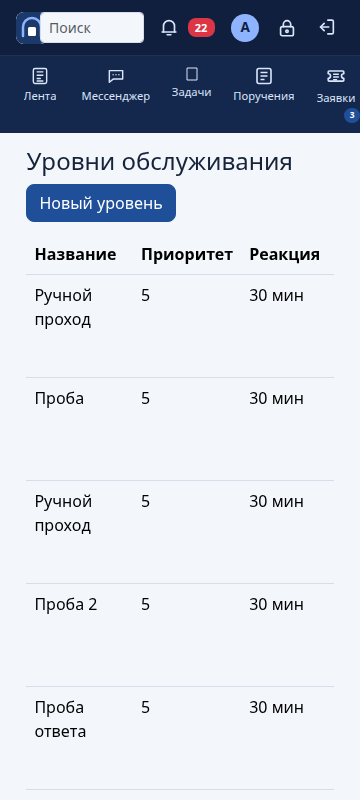
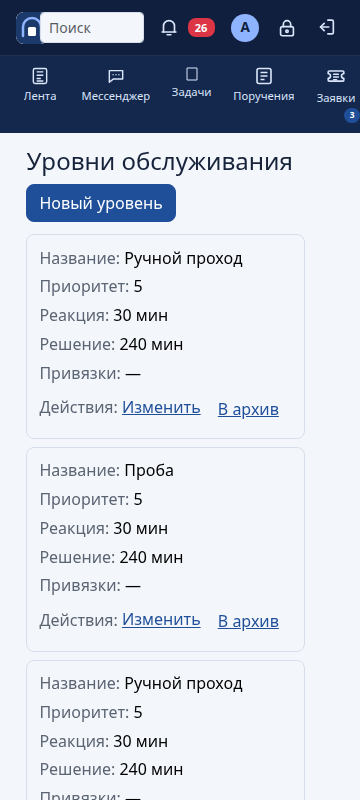
T-11305: 360 px — карточки списков уровней и шаблонов, активный фильтр с aria-current, ноль вместо прочерка в отчёте

diff --git a/backend/templates/servicedesk/reports/page.html b/backend/templates/servicedesk/reports/page.html
@@ -1,6 +1,6 @@
 {% extends layout %}
 {% block content %}
-<main data-report-page style="max-width:100%;overflow-wrap:anywhere">
+<main class="container-fluid w-100 py-3" data-report-page style="max-width:100%;overflow-wrap:anywhere">
   <h1>Отчёт по заявкам</h1>
   <p><a class="btn btn-outline-secondary btn-sm" data-report-export
      href="/servicedesk/reports/export/?{{ request.GET.urlencode }}">Скачать Excel</a></p>
@@ -25,7 +25,7 @@
   </form>
   <section aria-label="Показатели">
     {% for key, title, value in metric_rows %}
-      <div data-report-row data-key="{{ key }}" data-value="{{ value }}"><span>{{ title }}</span>: <strong>{{ value|default:"—" }}</strong></div>
+      <div data-report-row data-key="{{ key }}" data-value="{{ value }}"><span>{{ title }}</span>: <strong>{{ value|default_if_none:"—" }}</strong></div>
     {% endfor %}
   </section>
   <h2>Просрочки по уровням</h2>

diff --git a/backend/templates/servicedesk/list/page.html b/backend/templates/servicedesk/list/page.html
@@ -15,9 +15,9 @@
     </ul>
   </nav>
   <nav class="tickets-due-filters mb-2" aria-label="Сроки">
-    <a class="chip{% if due == 'overdue' %} active{% endif %}" data-due="overdue" data-due-count="overdue"
+    <a class="chip{% if due == 'overdue' %} active{% endif %}"{% if due == 'overdue' %} aria-current="page"{% endif %} data-due="overdue" data-due-count="overdue"
        href="/tickets/?preset={{ page.preset }}&due=overdue">Просроченные</a>
-    <a class="chip{% if due == 'today' %} active{% endif %}" data-due="today" data-due-count="today"
+    <a class="chip{% if due == 'today' %} active{% endif %}"{% if due == 'today' %} aria-current="page"{% endif %} data-due="today" data-due-count="today"
        href="/tickets/?preset={{ page.preset }}&due=today">Срок сегодня</a>
   </nav>
   <details data-filter-panel class="filter-panel mb-3" open{% if filtered %} data-filtered="true"{% endif %}>

diff --git a/backend/static/servicedesk/lists.css b/backend/static/servicedesk/lists.css
@@ -1,0 +1,13 @@
+/* Срез 011: списки уровней и частых ответов на узком экране — строки-карточки без обрезки столбцов. */
+@media (max-width: 575.98px) {
+  [data-sla-list] table, [data-answer-list] table { display: block; }
+  [data-sla-list] thead, [data-answer-list] thead { display: none; }
+  [data-sla-list] tbody tr, [data-answer-list] tbody tr {
+    display: block; border: 1px solid var(--bs-border-color, #dee2e6); border-radius: .5rem;
+    padding: .5rem .75rem; margin-bottom: .5rem;
+  }
+  [data-sla-list] tbody td, [data-answer-list] tbody td { display: block; border: 0; padding: .15rem 0; }
+  [data-sla-list] tbody td[data-label]::before, [data-answer-list] tbody td[data-label]::before {
+    content: attr(data-label) ": "; color: #5b6472;
+  }
+}

diff --git a/backend/templates/_assets.html b/backend/templates/_assets.html
@@ -20,3 +20,4 @@
 <script src="{% static 'vendor/htmx-2.0.11.min.js' %}" defer></script>
 <script src="{% static 'vendor/htmx-ext-ws-2.0.4.min.js' %}" defer></script>
 <script src="{% static 'vendor/alpine-3.17.4.csp.min.js' %}" defer></script>
+{% if request.path|slice:':12' == '/servicedesk' %}<link rel="stylesheet" href="{% static 'servicedesk/lists.css' %}">{% endif %}
